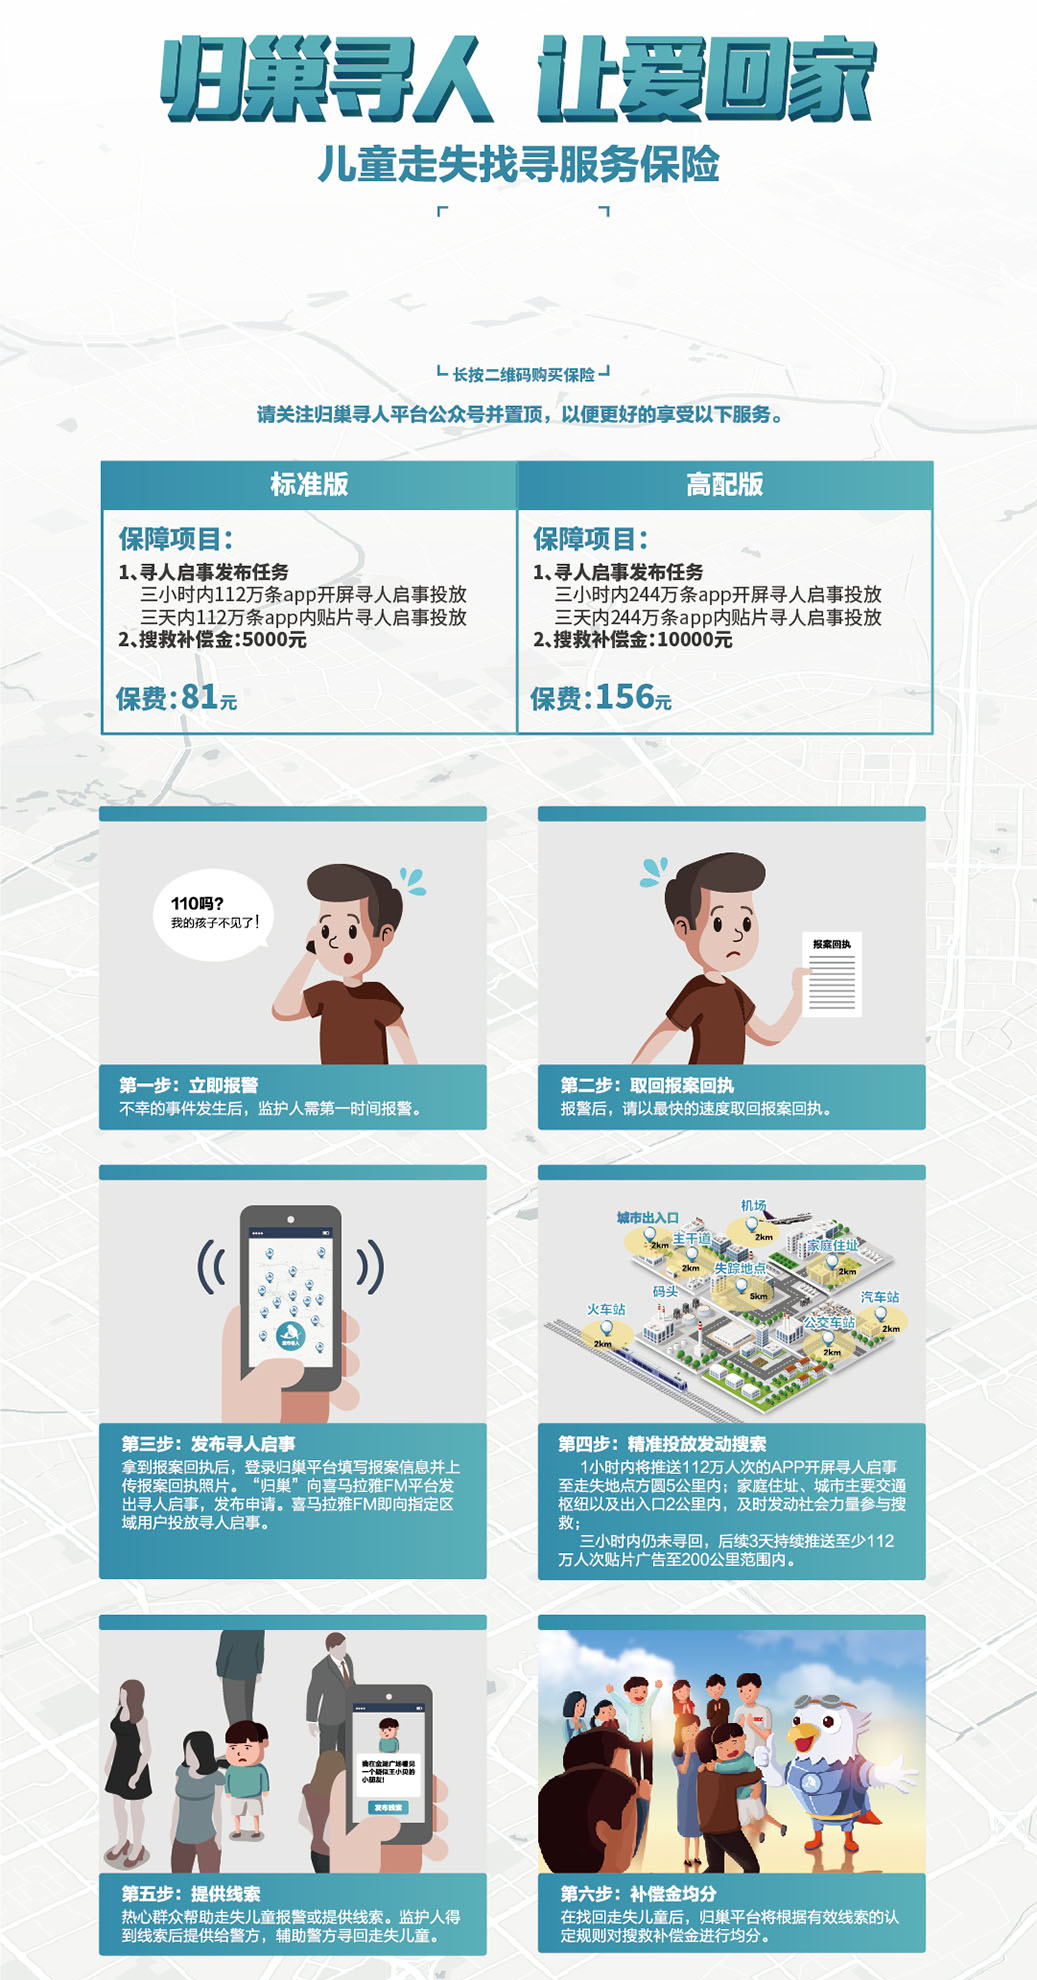
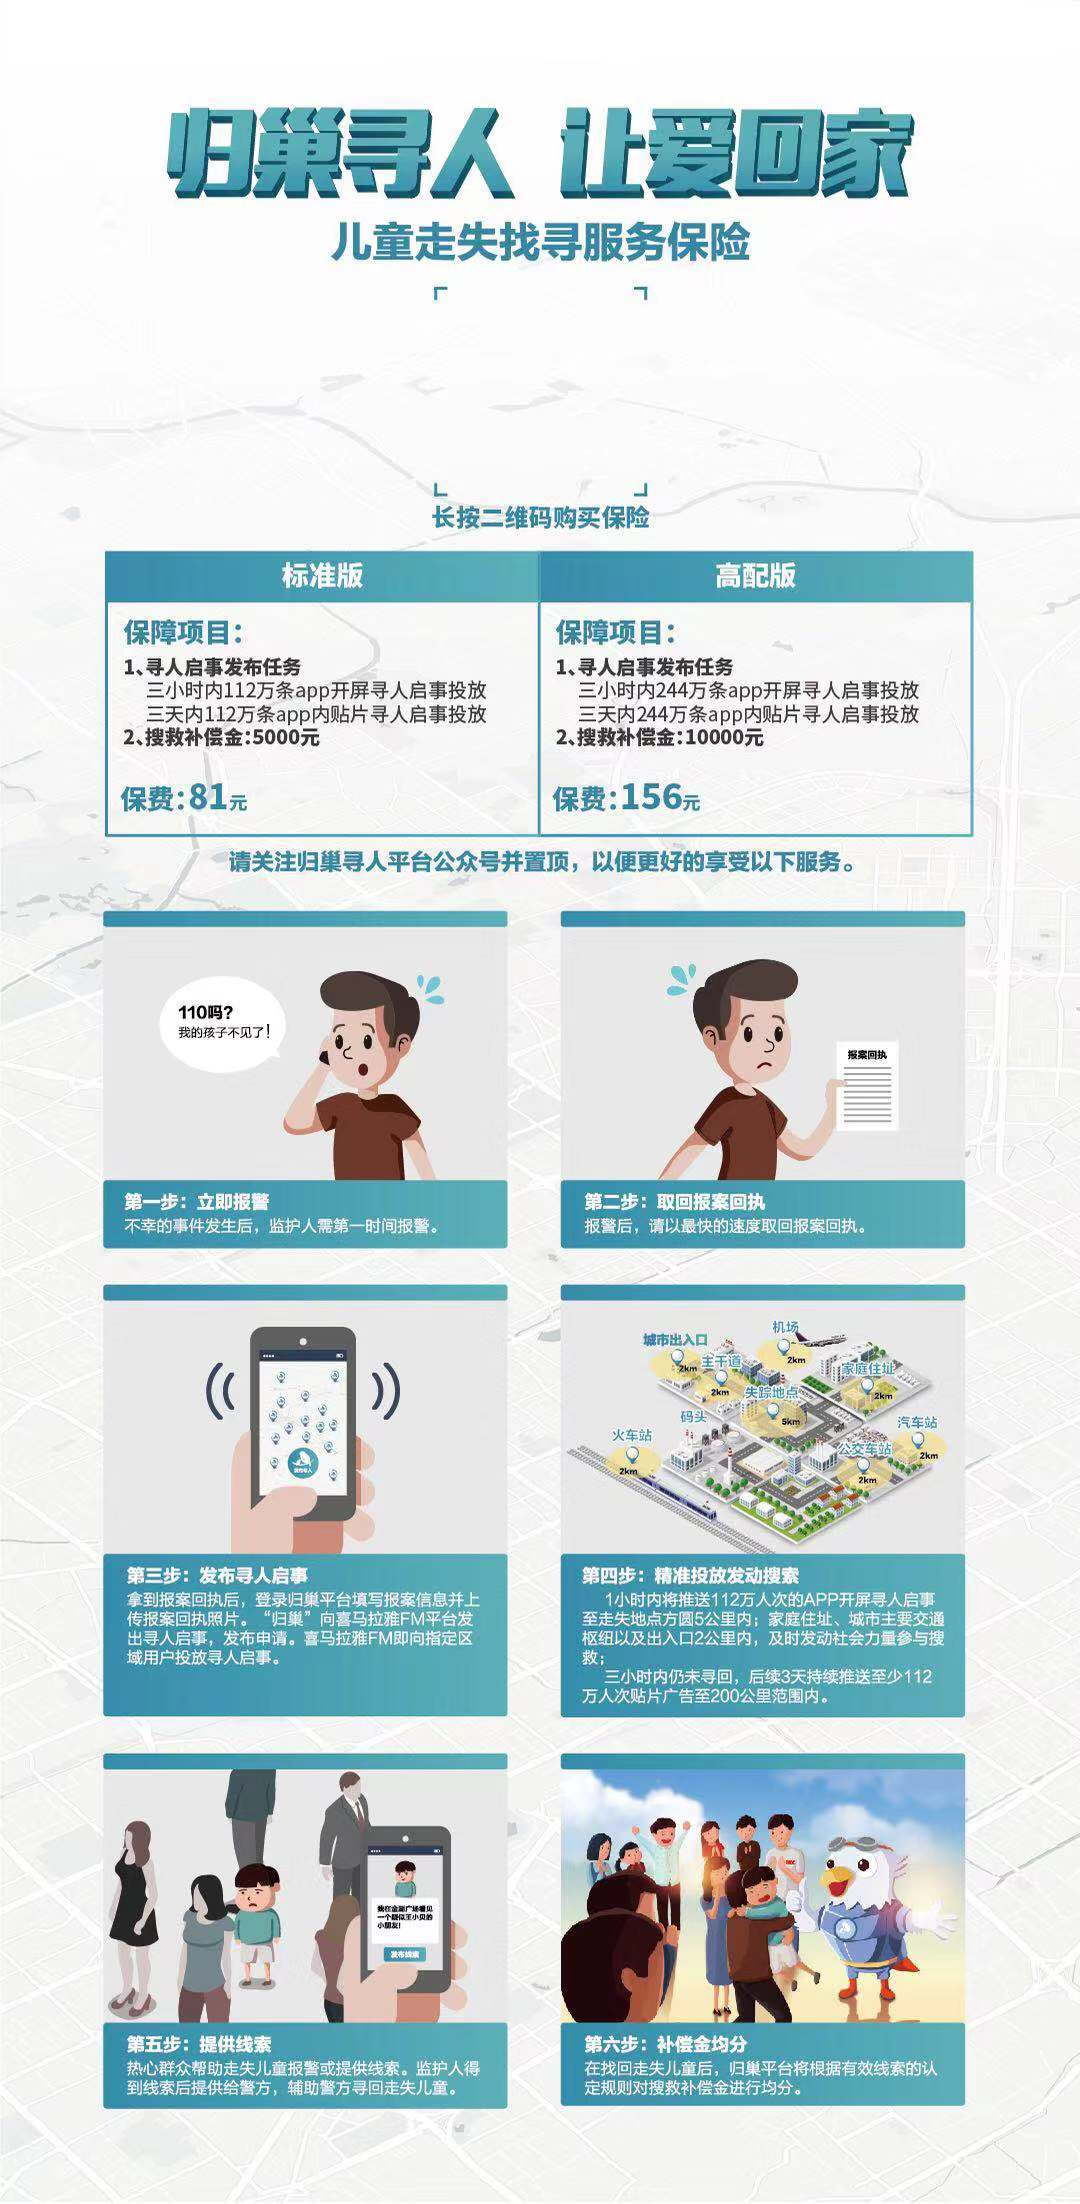
up：服务器上的修改没有同步到git

diff --git a/core/lib/bird.php b/core/lib/bird.php
@@ -659,7 +659,7 @@ flowintime, s.user_name,s.user_code,s.team_name,s.bank_code,s.bank_name,s.compan
 
 		// 背景图高度1980
 		// 背景图中二维码距离顶部200
-		return $this->addPic($backImg, $codeImg, 200, 200, 419, 200, $data['phone']);
+		return $this->addPic($backImg, $codeImg, 200, 200, 445, 290, $data['phone']);
 	}
 
 	public function addPic($path_base, $path_logo, $imgWidth, $imgHeight, $dst_x, $dst_y, $new) {
